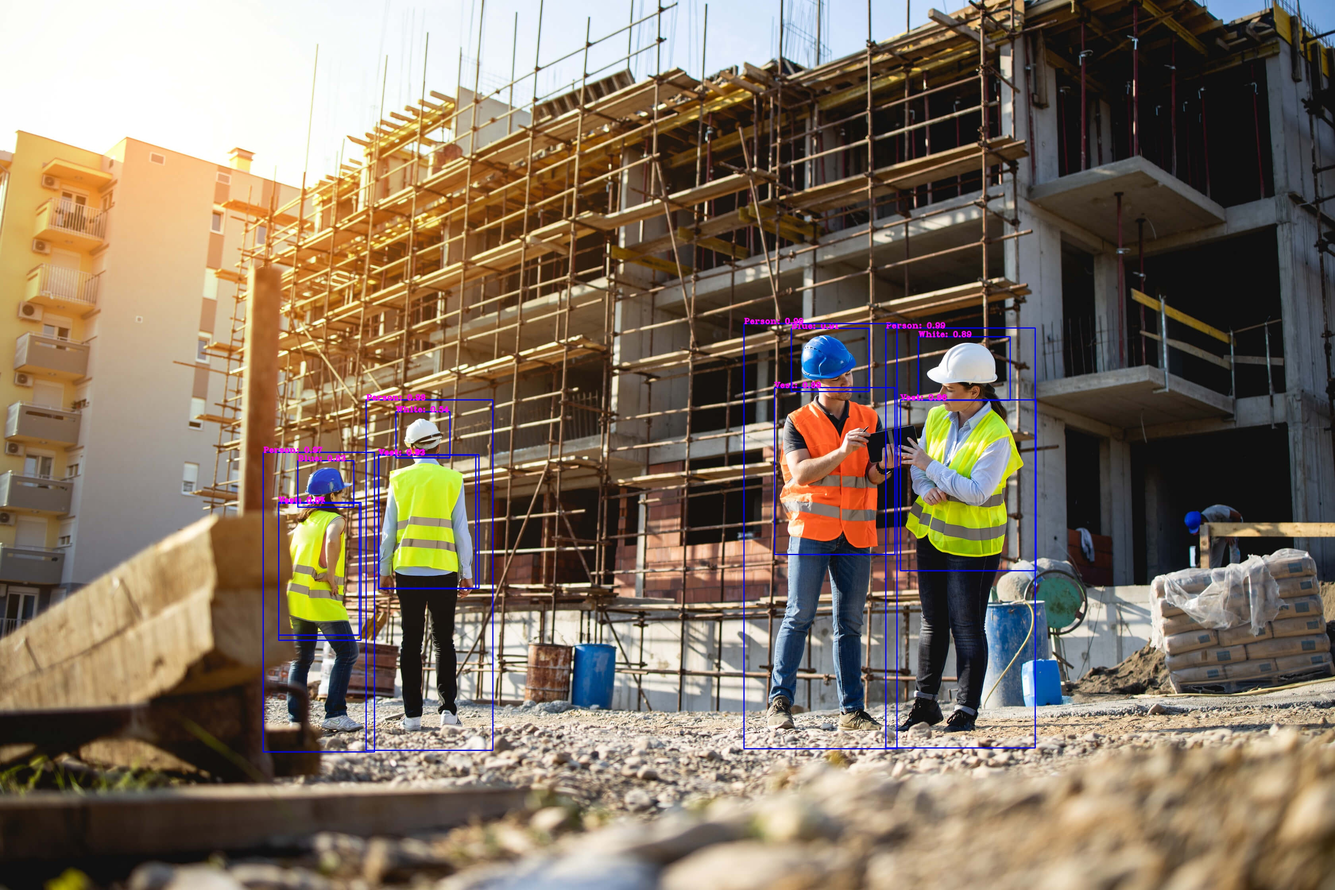
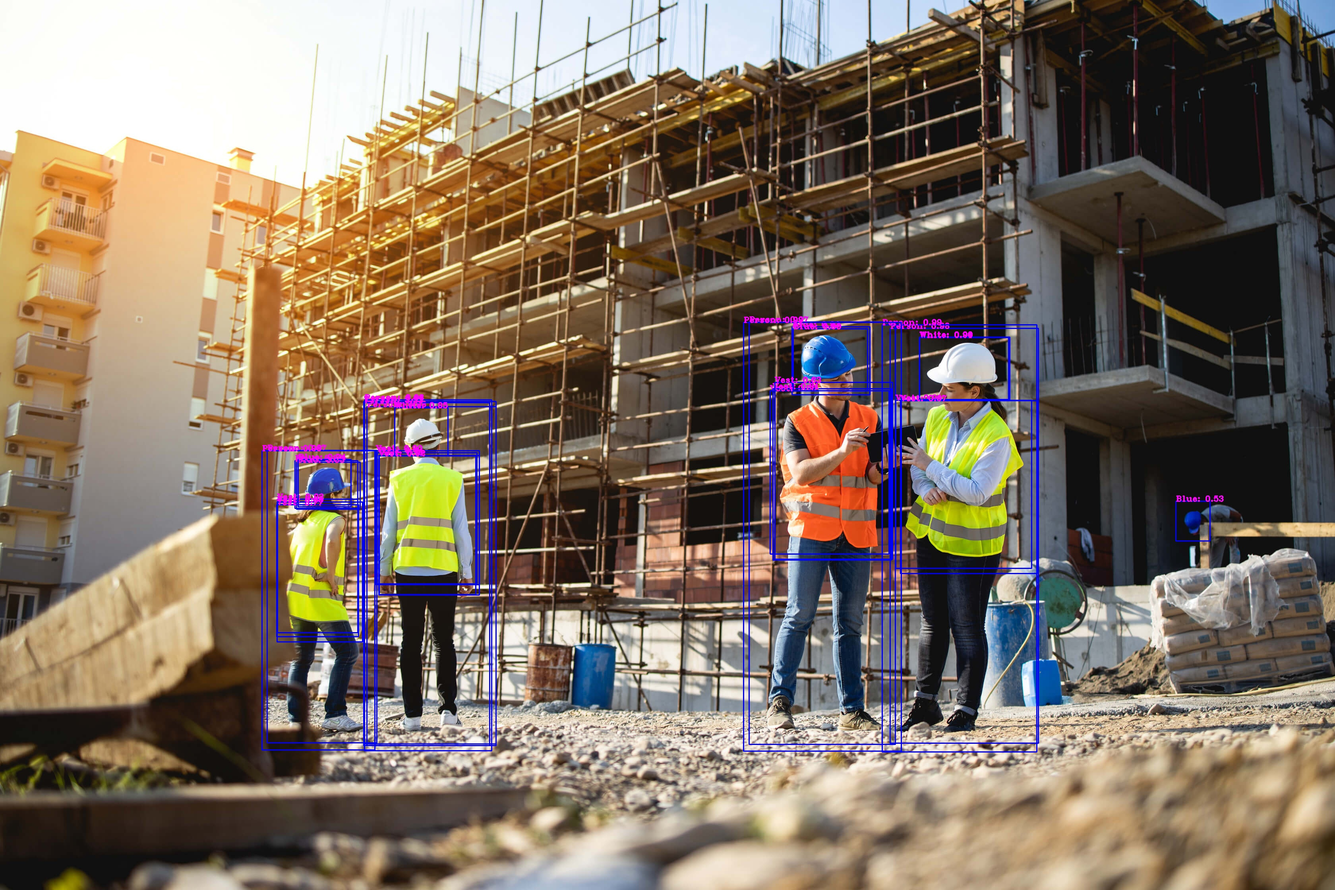
update

Changed region(s): [[0.5312, 0.3438, 0.7812, 0.8438], [0.1875, 0.4375, 0.375, 0.8438], [0.875, 0.5312, 0.9062, 0.625]]

diff --git a/app.py b/app.py
@@ -99,8 +99,10 @@ def stream(version):
 
         # keep 3 pred with highest confident score
         probas = outputs['pred_logits'].softmax(-1)[0, :, :-1]
-        # keep = probas.max(-1).values >= min(torch.topk(probas.max(-1).values,3).values).item()
-        keep = probas.max(-1).values > 0.5
+        if version != "3" and version != "4":
+            keep = probas.max(-1).values >= min(torch.topk(probas.max(-1).values,3).values).item()
+        else:
+            keep = probas.max(-1).values >= 0.5
 
         # convert boxes from [0; 1] to image scales
         bboxes_scaled = rescale_bboxes(outputs['pred_boxes'][0, keep].to('cpu'), frame.shape[:2][::-1])
@@ -168,8 +170,10 @@ def fimg_predict():
 
     # # keep only predictions with 0.7+ confidence
     probas = outputs['pred_logits'].softmax(-1)[0, :, :-1]
-    keep = probas.max(-1).values >= 0.5 #min(torch.topk(probas.max(-1).values,3).values).item()
-    # keep = probas.max(-1).values > 0.7
+    if session['version'] != "3" and session['version'] != "4":
+        keep = probas.max(-1).values >= min(torch.topk(probas.max(-1).values,3).values).item()
+    else:
+        keep = probas.max(-1).values >= 0.5
 
     # # convert boxes from [0; 1] to image scales
     bboxes_scaled = rescale_bboxes(outputs['pred_boxes'][0, keep].to('cpu'), im.size)

diff --git a/README.md b/README.md
@@ -1,2 +1,134 @@
-# mDETD
-This is our final project in fpt university
+# Personal Protective Equipment Detection
+
+## Table of contents
+1. [Introduction](#introduction)
+2. [Methodology overview](#methodology)
+	- [Dummy neck & Modified simple-FPN](#neck)
+	- [Model architecture](#model)
+3. [Settings](#setting)
+    - [Pre-train phase](#pretrain)
+    - [Fine-tunning phase](#finetune)
+4. [Experiment results](#result)
+    - [Val2017](#val1)
+    - [CHVGVal](#val2)
+5. [Analysis (but not really)](#analysis)
+    - [Learning rate](#lr)
+    - [Training loss](#loss)
+    - [Decoder output](#output)
+    - [Haze, Rain, Low-light effect on CHVGVal](#effect)
+6. [Web application](#web)
+    - [Installation](#installation)
+    - [Demo](#demo)
+
+## <a name="introduction"></a> Introduction
+About this repository:
+- It was built based on the official implementation of the paper [Deformable DETR: Deformable Transformers for End-to-End Object Detection](https://github.com/fundamentalvision/Deformable-DETR). 
+- This is the a summary of our final project at FPT university. For more details about the project, please take a look at our dissertation [here!](https://drive.google.com/drive/folders/1kZmqb7pM0cy5Ww1Swt6KqmZImHyLHo6y?usp=sharing)
+- In this project, we try different ways to assemble models based on the two currently state-of-the-art approaches in Fewshot Object Detection, which are [imTED](https://arxiv.org/abs/2205.09613) and [DETReg](https://arxiv.org/abs/2106.04550). With the hope that it can be applied to PPE detection tasks in low-data regimes.
+- If you're looking for a model that can actually work, this is definitely not the place. Since there are lots of limitations in computation resources and time, our models haven't converged yet; furthermore, lots of training settings and architecture are modified so that each epoch can be finished within a Kaggle session time limit.
+
+## <a name="methodology"></a> Methodology overview
+### <a name="neck"></a> Dummy neck & Modified simple-FPN
+The first neck we represented is called "dummy" neck that use the output of the last two layers from ViT to generate four feature maps. The first two are obtained by using a single linear mapping that projects the dimension of feature from 768 to 256. The remains are produced by feeding the outputs through a vanilla FPN with lateral and top-down connections.
+
+![Fig. 12](/static/Fig12.png)
+
+The other is a modified version of simple-FPN, which was proposed in the paper [Exploring Plain Vision Transformer Backbones for Object Detection](https://arxiv.org/abs/2203.16527). The modification is made due to the limitation in our computing resources: the deconvolution of stride 4 is replaced by a convolution of stride 4.
+
+![Fig. 13](/static/Fig13.png)
+
+### <a name="model"></a> Model architecture
+Using the ideas above, we then represent three combinations called model_0, model_1, model_2. Their architecture is as follows:
+
+![Fig. 14](/static/Fig14.png)
+
+A comparison between these models is shown below:
+
+|    Model    |      Neck      |  #Params  |   FPS   |
+|:-------------:|:----------------:|:-----------:|:---------:|
+| Model_0 | Dummy neck |  96.3M  | 9.4 |
+| Model_1 | Dummy neck |  100M   | 7.9 |
+| Model_2 | Modified sFPN | 103.4M   | 7.4 |
+
+## <a name="setting"></a> Settings
+### <a name="pretrain"></a> Pre-train phase
+Again, due to the limitation in computation resources, we train all of the models using [miniCOCO](https://github.com/giddyyupp/coco-minitrain), which is a curated mini training set for [COCO](https://cocodataset.org/#home). Other details about data augmentation and optimization are presented in our [thesis](https://drive.google.com/drive/folders/1kZmqb7pM0cy5Ww1Swt6KqmZImHyLHo6y?usp=sharing)!
+
+## <a name="finetune"></a> Fine-tunning phase
+The data that we used was created by manually choosing images from [CHVGTrain](https://universe.roboflow.com/scalersai/chvg-conversion).
+
+During fine-tunning phase, only the detector head is finetuned while the remaining components are frozen.
+
+## <a name="result"></a> Experiment results
+### <a name="val1"></a> Val2017
+| Method        | Backbone         | AP    | AP\_50 | AP\_75 | AP\_S | AP\_M | AP\_L |
+|---------------|------------------|-------|--------|--------|-------|-------|-------|
+| Faster R\-CNN | ResNet\-50 w FPN | 27\.7 | 48\.8  | 28\.4  | 14\.7 | 29\.8 | 36\.4 |
+| Mask R\-CNN   | ResNet\-50 w FPN | 28\.5 | 49\.5  | 29\.4  | 14\.7 | 30\.7 | 37\.6 |
+| RetinaNet     | ResNet\-50 w FPN | 25\.7 | 43\.1  | 26\.8  | 12\.1 | 28\.6 | 34\.2 |
+| CornerNet     | Hourglass\-104   | 28\.4 | 41\.8  | 29\.5  | 11\.3 | 29\.6 | 39\.2 |
+| ExtremeNet    | Hourglass\-104   | 27\.3 | 39\.4  | 28\.9  | 12\.5 | 29\.6 | 38\.0 |
+| Model_0       | ViT, MAE         | 1\.7  | 4\.0   | 1\.1   | 0\.4  | 1\.3  | 2\.8  |
+| Model_1       | ViT, MAE         | 7\.9  | 14\.2  | 7\.7   | 1\.4  | 6\.5  | 14\.8 |
+| Model_2       | ViT, MAE         | 6\.3  | 11\.5  | 6\.1   | 0\.7  | 5\.2  | 11\.6 |
+
+### <a name="val2"></a> CHVGVal
+| Method        | Backbone         | AP    | AP\_50 | AP\_75 | AP\_S | AP\_M | AP\_L |
+|---------------|------------------|-------|--------|--------|-------|-------|-------|
+| DDETR         | ResNet\-50       | 38\.7 | 67\.6  | 38\.7  | 12\.8 | 39\.3 | 48\.4 |
+| DETReg        | ResNet\-50       | 39\.5 | 68\.0  | 39\.9  | 12\.2 | 38\.9 | 50\.5 |
+| Model_0       | ViT, MAE         | 0\.3  | 1\.0   | 0\.0   | 0\.0  | 0\.0  | 0\.4  |
+| Model_1       | ViT, MAE         | 1\.4  | 3\.0   | 1\.2   | 0\.0  | 0\.9  | 1\.6  |
+| Model_2       | ViT, MAE         | 0\.4  | 1\.1   | 0\.2   | 0\.0  | 0\.0  | 0\.5  |
+
+## <a name="analysis"></a> Analysis (but not really)
+### <a name="lr"></a> Learning rate
+After trying different settings about learning rate, we hypothesize that, although ViT has been pretrained under a self-supervised task, it is not absolutely align to object detection. Thus, a larger learning rate is 
+obvious. In contrast, DDETR's transformer has been pretrained under self-supervision task 
+that’s closer to object detection, so higher learning rate is not needed.
+ 
+### <a name="loss"></a> Training loss
+As shown in figure below, all three of our models are continuing to 
+converge. Model_1 and model_2 give quite similar results, while model_0 converges 
+slower and takes more time. However, due to time constraints, we have not been able to 
+train these models to the point of convergence. Therefore, it is unable to assess whether the 
+miniCOCO dataset is enough to pretrain transformer architecture models, which are well-known as "hungry data" models.
+
+![Fig. 15](/static/Fig15.png)
+
+### <a name="output"></a> Decoder output
+Similar to DETRs, each query learns to specialize in certain areas and box sizes.
+
+![Fig. 16](/static/Fig16.png)
+
+We visualize the attention maps of the last 
+encoder layer of trained models. Each attention map corresponds to a feature map 
+generated from the model's neck.
+
+![Fig. 17](/static/Fig17.png)
+
+### <a name="effect"></a> Haze, Rain, Low-light effect on CHVGVal
+In this part, we generate image with weather effect follow the [article](https://peerj.com/articles/cs-999/), then reasoning about the results. As this section is too long for a summary, please see [here](https://drive.google.com/drive/folders/1kZmqb7pM0cy5Ww1Swt6KqmZImHyLHo6y?usp=sharing).
+
+
+## <a name="web"></a> Web application
+### <a name="installation"></a> Installation
+- First, please install the environment follow [this](https://github.com/amirbar/DETReg).
+- Then install other requirements as below:
+```bash
+    pip install timm==0.3.2
+    pip install Flask
+```
+
+### <a name="demo"></a> Demo
+The web application give you some options, you can choose the model (either model_0, model_1, model_2, DDETR, DETReg), and the demo type (either from image or live cam).
+
+![Screen1](/static/web1.png)
+
+Below is the result we got after submit an image.
+
+![Screen2](/static/web2.png)
+
+And from the camera.
+
+![Screen3](/static/web3.png)
